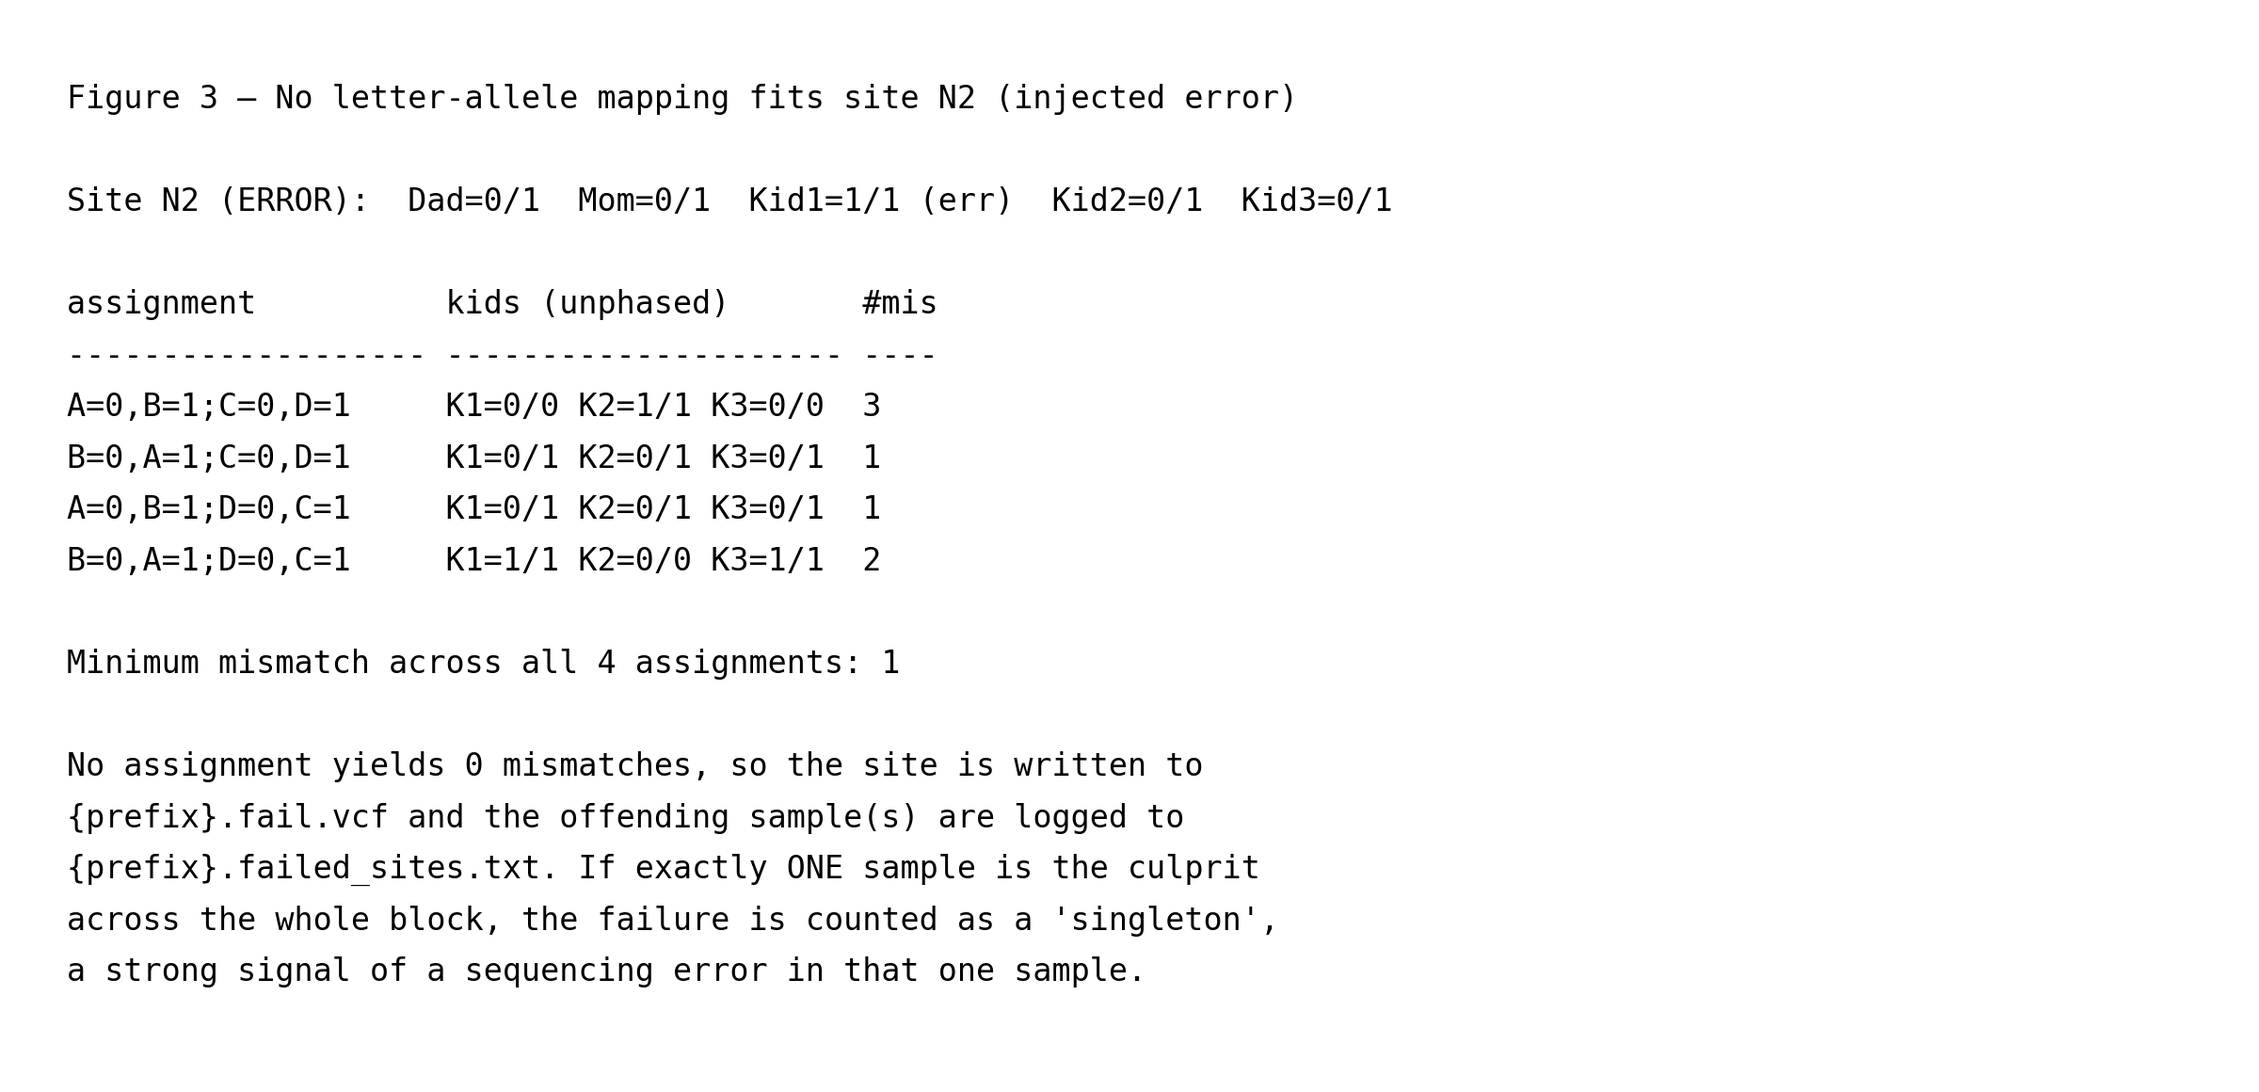
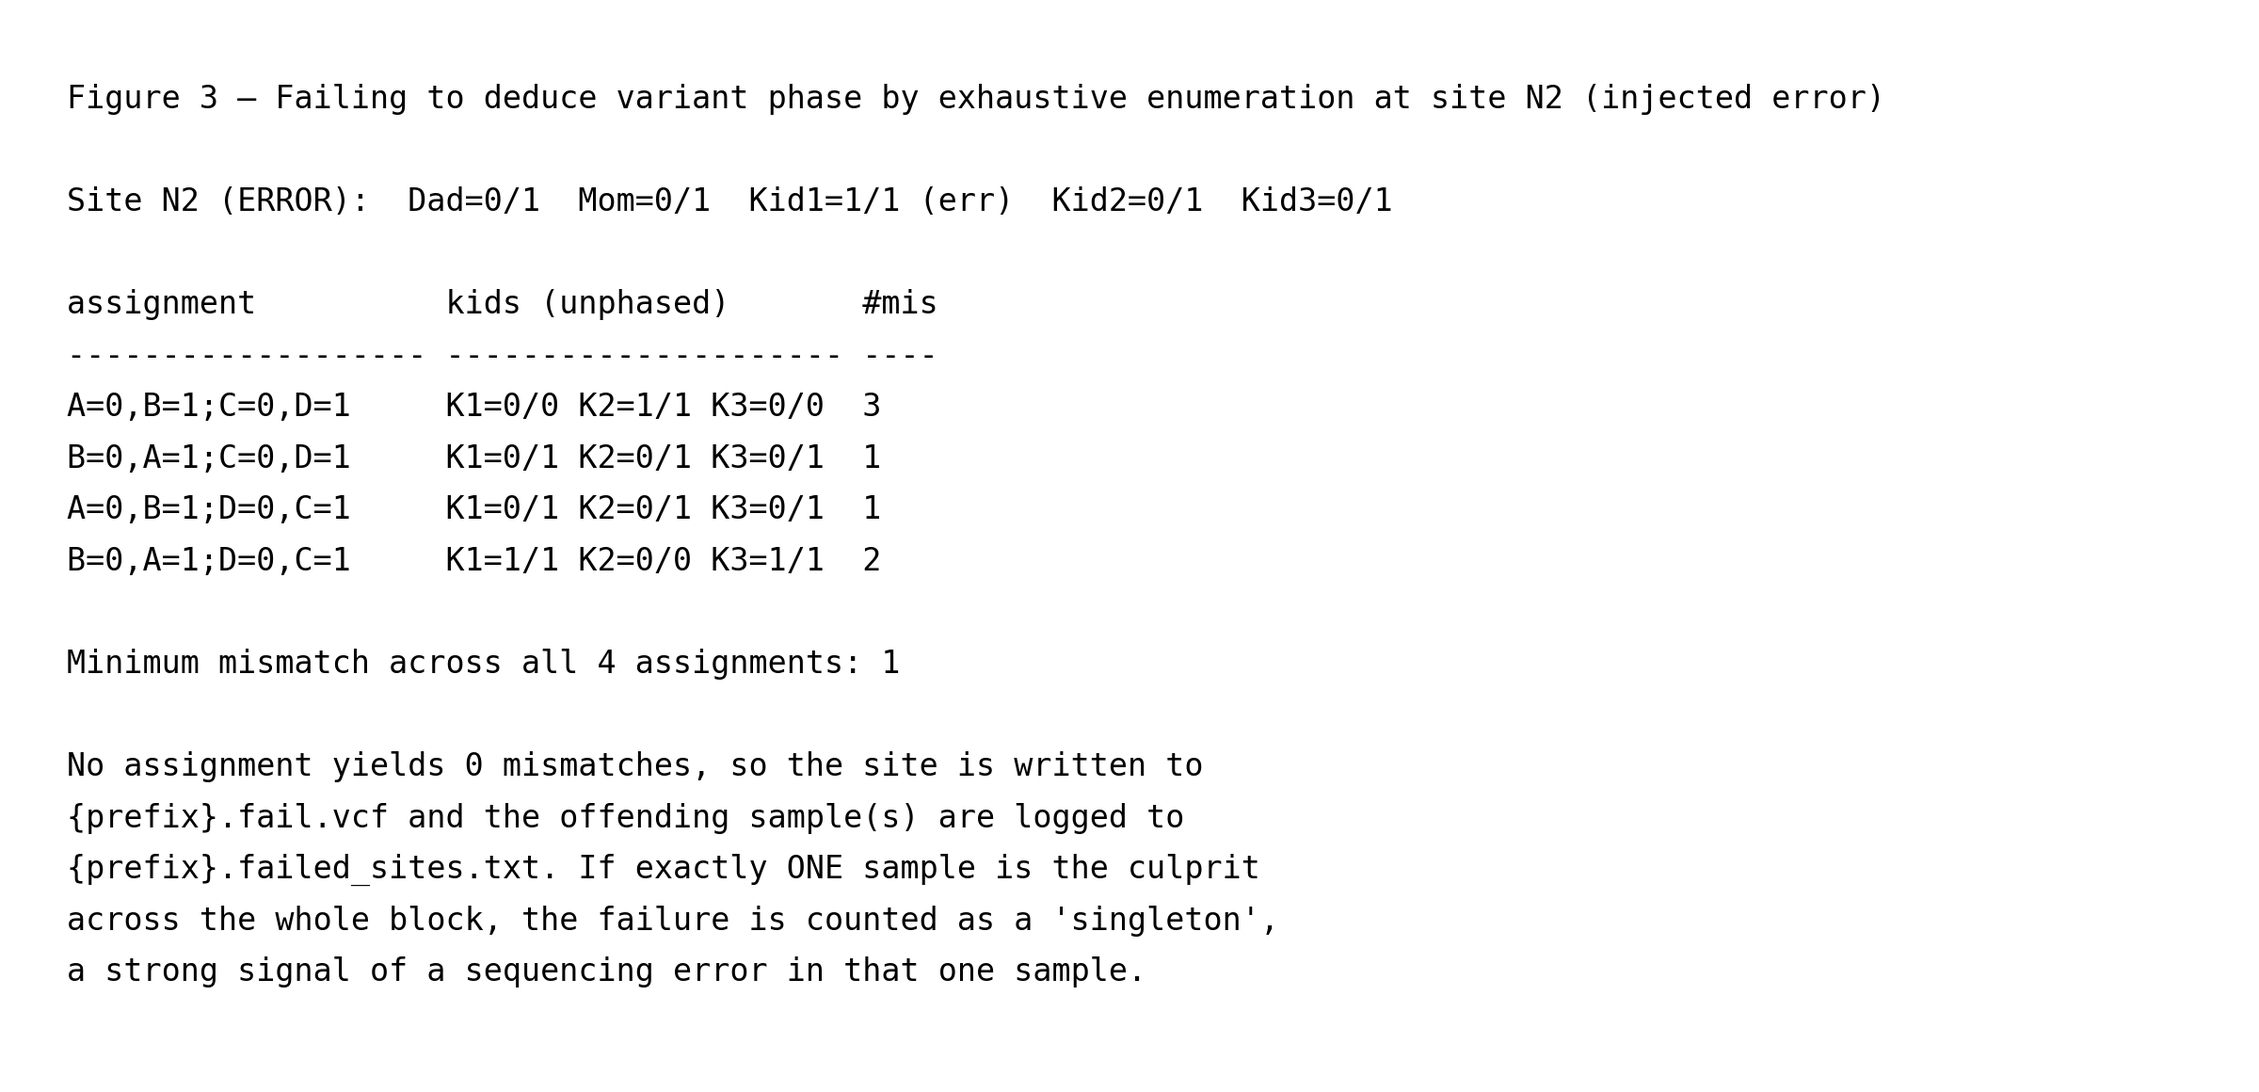
Recast concordance §3/§4 titles around phase deduction
Retitle §3 to "Deducing variant phase by exhaustive enumeration at
a clean site" and §4 to the parallel "Failing to deduce variant
phase by exhaustive enumeration at an error site", with Fig 2 and
Fig 3 captions updated to match. The §2 closing sentence drops its
"impossible genotype" reference (concept still defined in methods
§3.2) in favour of wording consistent with the new Fig 3 title.
Fig 2's (A) line reworded to "Observed unphased genotypes (read
from VCF):" for clarity.

Changed region(s): [[0.125, 0.0621, 0.625, 0.1241], [0.7188, 0.0621, 0.8125, 0.0931], [0.6562, 0.0621, 0.6875, 0.0931]]

diff --git a/wiki/generate_wiki.py b/wiki/generate_wiki.py
@@ -2688,11 +2688,11 @@ def component_3_concordance(out_dir: Path) -> None:
     assign_widths = [20, 25, 27, 27, 5]
 
     body_2 = [
-        f"Figure 2 — Enumerating letter-allele mappings at site {s1['label']} (clean pass)",
+        f"Figure 2 — Deducing variant phase by exhaustive enumeration at site {s1['label']} (clean pass)",
         "",
         "Inputs consumed at this site:",
         "",
-        "  (A) Observed VCF genotypes (unphased):",
+        "  (A) Observed unphased genotypes (read from VCF):",
         f"      Dad  = {_fmt_gt(obs1['Dad'])}   Mom  = {_fmt_gt(obs1['Mom'])}",
         f"      Kid1 = {_fmt_gt(obs1['Kid1'])}   "
         f"Kid2 = {_fmt_gt(obs1['Kid2'])}   "
@@ -2761,7 +2761,7 @@ def component_3_concordance(out_dir: Path) -> None:
     assign_widths_slim = [20, 22, 5]
 
     body_3 = [
-        f"Figure 3 — No letter-allele mapping fits site {s2['label']} (injected error)",
+        f"Figure 3 — Failing to deduce variant phase by exhaustive enumeration at site {s2['label']} (injected error)",
         "",
         f"Site {s2['label']} (ERROR):  "
         f"Dad={_fmt_gt(obs2['Dad'])}  "
@@ -2985,11 +2985,11 @@ phased `pass.vcf` record or a quarantined `fail.vcf` record.
 
 Site `N2` carries an **injected sequencing error**: Kid1 is reported
 as `1/1` even though the simulation truth is `0/1`. This is the case
-that the "impossible genotype" rule in Figure 3 is designed to catch.
+Figure 3 covers, where exhaustive enumeration finds no consistent phase.
 
-## 3. Enumerating letter-allele mappings at a clean site
+## 3. Deducing variant phase by exhaustive enumeration at a clean site
 
-![Figure 2 — Enumerating letter-allele mappings at site N1 (clean pass)](fig2.png)
+![Figure 2 — Deducing variant phase by exhaustive enumeration at site N1 (clean pass)](fig2.png)
 
 At every record inside a block,
 [`find_best_phase_orientation`]({link(conc_rs, 252)}) (driver call at
@@ -3019,9 +3019,9 @@ Under the winning mapping, the kids' phased letter pairs immediately
 give the phased `p|m` genotypes shown in the
 "kids (expected, phased)" column.
 
-## 4. The "impossible genotype" rule
+## 4. Failing to deduce variant phase by exhaustive enumeration at an error site
 
-![Figure 3 — No letter-allele mapping fits site N2 (injected error)](fig3.png)
+![Figure 3 — Failing to deduce variant phase by exhaustive enumeration at site N2 (injected error)](fig3.png)
 
 At site `N2` the injected error means **no** mapping produces zero
 mismatches — the best any mapping can do is {n2_min_mis} sample(s)

diff --git a/wiki/concordance/concordance.md b/wiki/concordance/concordance.md
@@ -6,16 +6,16 @@ off. `gtg-ped-map` emits only founder letters, and only at informative
 sites; it never reconstructs the 0/1 allele sequence of any haplotype.
 That job belongs to `gtg-concordance`, which re-reads the VCF for each
 IHT block and phases **every** variant using the block's letter map.
-All line numbers refer to commit `fc639f2`. As in the other
+All line numbers refer to commit `3d13665`. As in the other
 walkthrough pages, each function link is followed by its call site in
 the driver — `main()` in
-[`gtg_concordance.rs`](https://github.com/Platinum-Pedigree-Consortium/Platinum-Pedigree-Inheritance/blob/fc639f25b1c6860df2076151cbc161a8e1d4333b/code/rust/src/bin/gtg_concordance.rs#L315) — so you can step through
+[`gtg_concordance.rs`](https://github.com/Platinum-Pedigree-Consortium/Platinum-Pedigree-Inheritance/blob/3d1366561ca04c4aaeb035beb59856a3b0c11296/code/rust/src/bin/gtg_concordance.rs#L315) — so you can step through
 the driver source in parallel with this walkthrough.
 
 The toy simulation reuses the [left half of the nuclear-family block](https://github.com/petermchale/Platinum-Pedigree-Inheritance/blob/main/wiki/nuclear_family/fig4_2.png)
 (Kid1=(A,C), Kid2=(B,D), Kid3=(A,C)) and adds two sites where both
 parents are heterozygous. These are NON-informative for `gtg-ped-map`
-because [`unique_allele`](https://github.com/Platinum-Pedigree-Consortium/Platinum-Pedigree-Inheritance/blob/fc639f25b1c6860df2076151cbc161a8e1d4333b/code/rust/src/bin/map_builder.rs#L243) returns `None` at each
+because [`unique_allele`](https://github.com/Platinum-Pedigree-Consortium/Platinum-Pedigree-Inheritance/blob/3d1366561ca04c4aaeb035beb59856a3b0c11296/code/rust/src/bin/map_builder.rs#L243) returns `None` at each
 of them, but `gtg-concordance` still has to phase them. One of the two
 sites carries an injected sequencing error so both the clean-pass
 (`pass.vcf`) and error-quarantine (`fail.vcf`) code paths are
@@ -32,8 +32,8 @@ markdown file itself.
 
 The driver reads the `{prefix}.iht.txt` file produced by
 `gtg-ped-map` using
-[`parse_ihtv2_file`](https://github.com/Platinum-Pedigree-Consortium/Platinum-Pedigree-Inheritance/blob/fc639f25b1c6860df2076151cbc161a8e1d4333b/code/rust/src/iht.rs#L606) (driver call at
-[`gtg_concordance.rs:405`](https://github.com/Platinum-Pedigree-Consortium/Platinum-Pedigree-Inheritance/blob/fc639f25b1c6860df2076151cbc161a8e1d4333b/code/rust/src/bin/gtg_concordance.rs#L405)). The parser walks
+[`parse_ihtv2_file`](https://github.com/Platinum-Pedigree-Consortium/Platinum-Pedigree-Inheritance/blob/3d1366561ca04c4aaeb035beb59856a3b0c11296/code/rust/src/iht.rs#L606) (driver call at
+[`gtg_concordance.rs:405`](https://github.com/Platinum-Pedigree-Consortium/Platinum-Pedigree-Inheritance/blob/3d1366561ca04c4aaeb035beb59856a3b0c11296/code/rust/src/bin/gtg_concordance.rs#L405)). The parser walks
 the file line by line: the first three whitespace-separated fields of
 each row are the `chrom`, `start`, and `end` of the block's BED
 interval, the trailing columns carry the per-block marker count, and
@@ -50,22 +50,22 @@ The driver then iterates over the returned `Vec<IhtVec>` one block at
 a time. For each block it converts the BED coordinates to the
 `(chrom_id, start, end)` triple expected by `rust-htslib` and calls
 `reader.fetch(...)` at
-[`gtg_concordance.rs:427`](https://github.com/Platinum-Pedigree-Consortium/Platinum-Pedigree-Inheritance/blob/fc639f25b1c6860df2076151cbc161a8e1d4333b/code/rust/src/bin/gtg_concordance.rs#L427) to position the VCF
+[`gtg_concordance.rs:427`](https://github.com/Platinum-Pedigree-Consortium/Platinum-Pedigree-Inheritance/blob/3d1366561ca04c4aaeb035beb59856a3b0c11296/code/rust/src/bin/gtg_concordance.rs#L427) to position the VCF
 reader on the first record that falls inside the block — silently
 skipping the block if the fetch fails (e.g. the contig is absent from
 the VCF index). Every record returned by the resulting
 `reader.records()` iterator is fed through
-[`parse_vcf_record`](https://github.com/Platinum-Pedigree-Consortium/Platinum-Pedigree-Inheritance/blob/fc639f25b1c6860df2076151cbc161a8e1d4333b/code/rust/src/bin/gtg_concordance.rs#L116) at
-[`gtg_concordance.rs:440`](https://github.com/Platinum-Pedigree-Consortium/Platinum-Pedigree-Inheritance/blob/fc639f25b1c6860df2076151cbc161a8e1d4333b/code/rust/src/bin/gtg_concordance.rs#L440), which pulls each
+[`parse_vcf_record`](https://github.com/Platinum-Pedigree-Consortium/Platinum-Pedigree-Inheritance/blob/3d1366561ca04c4aaeb035beb59856a3b0c11296/code/rust/src/bin/gtg_concordance.rs#L116) at
+[`gtg_concordance.rs:440`](https://github.com/Platinum-Pedigree-Consortium/Platinum-Pedigree-Inheritance/blob/3d1366561ca04c4aaeb035beb59856a3b0c11296/code/rust/src/bin/gtg_concordance.rs#L440), which pulls each
 sample's depth and (unphased, index-sorted) allele vector into a
 `HashMap<String, (depth, Vec<GenotypeAllele>)>`. Low-quality records
 (`record.qual() < args.qual`) and records with missing alleles are
 short-circuited straight to `{prefix}.fail.vcf` at
-[`gtg_concordance.rs:444`](https://github.com/Platinum-Pedigree-Consortium/Platinum-Pedigree-Inheritance/blob/fc639f25b1c6860df2076151cbc161a8e1d4333b/code/rust/src/bin/gtg_concordance.rs#L444) and
-[`gtg_concordance.rs:450`](https://github.com/Platinum-Pedigree-Consortium/Platinum-Pedigree-Inheritance/blob/fc639f25b1c6860df2076151cbc161a8e1d4333b/code/rust/src/bin/gtg_concordance.rs#L450); everything else is
+[`gtg_concordance.rs:444`](https://github.com/Platinum-Pedigree-Consortium/Platinum-Pedigree-Inheritance/blob/3d1366561ca04c4aaeb035beb59856a3b0c11296/code/rust/src/bin/gtg_concordance.rs#L444) and
+[`gtg_concordance.rs:450`](https://github.com/Platinum-Pedigree-Consortium/Platinum-Pedigree-Inheritance/blob/3d1366561ca04c4aaeb035beb59856a3b0c11296/code/rust/src/bin/gtg_concordance.rs#L450); everything else is
 handed to the per-site phasing step —
-[`find_best_phase_orientation`](https://github.com/Platinum-Pedigree-Consortium/Platinum-Pedigree-Inheritance/blob/fc639f25b1c6860df2076151cbc161a8e1d4333b/code/rust/src/bin/gtg_concordance.rs#L252) at
-[`gtg_concordance.rs:454`](https://github.com/Platinum-Pedigree-Consortium/Platinum-Pedigree-Inheritance/blob/fc639f25b1c6860df2076151cbc161a8e1d4333b/code/rust/src/bin/gtg_concordance.rs#L454) — including variants
+[`find_best_phase_orientation`](https://github.com/Platinum-Pedigree-Consortium/Platinum-Pedigree-Inheritance/blob/3d1366561ca04c4aaeb035beb59856a3b0c11296/code/rust/src/bin/gtg_concordance.rs#L252) at
+[`gtg_concordance.rs:454`](https://github.com/Platinum-Pedigree-Consortium/Platinum-Pedigree-Inheritance/blob/3d1366561ca04c4aaeb035beb59856a3b0c11296/code/rust/src/bin/gtg_concordance.rs#L454) — including variants
 that `gtg-ped-map` could not use because neither parent has a unique
 allele.
 
@@ -75,7 +75,7 @@ allele.
 
 The two sites in Figure 1 are both homozygous-absent for informative
 patterns: dad is `0/1` and so is mom. `gtg-ped-map`'s
-[`unique_allele`](https://github.com/Platinum-Pedigree-Consortium/Platinum-Pedigree-Inheritance/blob/fc639f25b1c6860df2076151cbc161a8e1d4333b/code/rust/src/bin/map_builder.rs#L243) test therefore returns `None`
+[`unique_allele`](https://github.com/Platinum-Pedigree-Consortium/Platinum-Pedigree-Inheritance/blob/3d1366561ca04c4aaeb035beb59856a3b0c11296/code/rust/src/bin/map_builder.rs#L243) test therefore returns `None`
 at both sites, so neither contributes to block construction. They
 still enter `gtg-concordance`'s phasing loop; the per-site machinery
 described below is what turns their unphased genotypes into either a
@@ -83,32 +83,32 @@ phased `pass.vcf` record or a quarantined `fail.vcf` record.
 
 Site `N2` carries an **injected sequencing error**: Kid1 is reported
 as `1/1` even though the simulation truth is `0/1`. This is the case
-that the "impossible genotype" rule in Figure 3 is designed to catch.
+Figure 3 covers, where exhaustive enumeration finds no consistent phase.
 
-## 3. Enumerating letter-allele mappings at a clean site
+## 3. Deducing variant phase by exhaustive enumeration at a clean site
 
-![Figure 2 — Enumerating letter-allele mappings at site N1 (clean pass)](fig2.png)
+![Figure 2 — Deducing variant phase by exhaustive enumeration at site N1 (clean pass)](fig2.png)
 
 At every record inside a block,
-[`find_best_phase_orientation`](https://github.com/Platinum-Pedigree-Consortium/Platinum-Pedigree-Inheritance/blob/fc639f25b1c6860df2076151cbc161a8e1d4333b/code/rust/src/bin/gtg_concordance.rs#L252) (driver call at
-[`gtg_concordance.rs:454`](https://github.com/Platinum-Pedigree-Consortium/Platinum-Pedigree-Inheritance/blob/fc639f25b1c6860df2076151cbc161a8e1d4333b/code/rust/src/bin/gtg_concordance.rs#L454)) enumerates the
+[`find_best_phase_orientation`](https://github.com/Platinum-Pedigree-Consortium/Platinum-Pedigree-Inheritance/blob/3d1366561ca04c4aaeb035beb59856a3b0c11296/code/rust/src/bin/gtg_concordance.rs#L252) (driver call at
+[`gtg_concordance.rs:454`](https://github.com/Platinum-Pedigree-Consortium/Platinum-Pedigree-Inheritance/blob/3d1366561ca04c4aaeb035beb59856a3b0c11296/code/rust/src/bin/gtg_concordance.rs#L454)) enumerates the
 `2^F=4` letter-allele mappings produced by
-[`Iht::founder_phase_orientations`](https://github.com/Platinum-Pedigree-Consortium/Platinum-Pedigree-Inheritance/blob/fc639f25b1c6860df2076151cbc161a8e1d4333b/code/rust/src/iht.rs#L492) (invoked
+[`Iht::founder_phase_orientations`](https://github.com/Platinum-Pedigree-Consortium/Platinum-Pedigree-Inheritance/blob/3d1366561ca04c4aaeb035beb59856a3b0c11296/code/rust/src/iht.rs#L492) (invoked
 inside `find_best_phase_orientation` at
-[`gtg_concordance.rs:256`](https://github.com/Platinum-Pedigree-Consortium/Platinum-Pedigree-Inheritance/blob/fc639f25b1c6860df2076151cbc161a8e1d4333b/code/rust/src/bin/gtg_concordance.rs#L256)). Each mapping
+[`gtg_concordance.rs:256`](https://github.com/Platinum-Pedigree-Consortium/Platinum-Pedigree-Inheritance/blob/3d1366561ca04c4aaeb035beb59856a3b0c11296/code/rust/src/bin/gtg_concordance.rs#L256)). Each mapping
 chooses which of dad's two sorted VCF alleles is tagged `A` vs `B`
 and which of mom's two is tagged `C` vs `D` — recall that the
 founders' letters are *unphased* (A/B, C/D), whereas each kid's
 letter pair is *phased* (paternal letter | maternal letter) by
 construction of the block. Under a given mapping,
-[`Iht::assign_genotypes`](https://github.com/Platinum-Pedigree-Consortium/Platinum-Pedigree-Inheritance/blob/fc639f25b1c6860df2076151cbc161a8e1d4333b/code/rust/src/iht.rs#L442) (driver call at
-[`gtg_concordance.rs:487`](https://github.com/Platinum-Pedigree-Consortium/Platinum-Pedigree-Inheritance/blob/fc639f25b1c6860df2076151cbc161a8e1d4333b/code/rust/src/bin/gtg_concordance.rs#L487) on the failing branch
-and [`gtg_concordance.rs:514`](https://github.com/Platinum-Pedigree-Consortium/Platinum-Pedigree-Inheritance/blob/fc639f25b1c6860df2076151cbc161a8e1d4333b/code/rust/src/bin/gtg_concordance.rs#L514) on the passing
+[`Iht::assign_genotypes`](https://github.com/Platinum-Pedigree-Consortium/Platinum-Pedigree-Inheritance/blob/3d1366561ca04c4aaeb035beb59856a3b0c11296/code/rust/src/iht.rs#L442) (driver call at
+[`gtg_concordance.rs:487`](https://github.com/Platinum-Pedigree-Consortium/Platinum-Pedigree-Inheritance/blob/3d1366561ca04c4aaeb035beb59856a3b0c11296/code/rust/src/bin/gtg_concordance.rs#L487) on the failing branch
+and [`gtg_concordance.rs:514`](https://github.com/Platinum-Pedigree-Consortium/Platinum-Pedigree-Inheritance/blob/3d1366561ca04c4aaeb035beb59856a3b0c11296/code/rust/src/bin/gtg_concordance.rs#L514) on the passing
 branch) reads each kid's phased letter pair as a phased VCF genotype.
 That genotype is then unphased (alleles sorted) and compared against
 the observed unphased kid genotype by
-[`compare_genotype_maps`](https://github.com/Platinum-Pedigree-Consortium/Platinum-Pedigree-Inheritance/blob/fc639f25b1c6860df2076151cbc161a8e1d4333b/code/rust/src/bin/gtg_concordance.rs#L213) (driver call at
-[`gtg_concordance.rs:268`](https://github.com/Platinum-Pedigree-Consortium/Platinum-Pedigree-Inheritance/blob/fc639f25b1c6860df2076151cbc161a8e1d4333b/code/rust/src/bin/gtg_concordance.rs#L268)), which counts how
+[`compare_genotype_maps`](https://github.com/Platinum-Pedigree-Consortium/Platinum-Pedigree-Inheritance/blob/3d1366561ca04c4aaeb035beb59856a3b0c11296/code/rust/src/bin/gtg_concordance.rs#L213) (driver call at
+[`gtg_concordance.rs:268`](https://github.com/Platinum-Pedigree-Consortium/Platinum-Pedigree-Inheritance/blob/3d1366561ca04c4aaeb035beb59856a3b0c11296/code/rust/src/bin/gtg_concordance.rs#L268)), which counts how
 many kids disagree.
 
 At site `N1`, exactly one of the four mappings explains every kid
@@ -117,19 +117,19 @@ Under the winning mapping, the kids' phased letter pairs immediately
 give the phased `p|m` genotypes shown in the
 "kids (expected, phased)" column.
 
-## 4. The "impossible genotype" rule
+## 4. Failing to deduce variant phase by exhaustive enumeration at an error site
 
-![Figure 3 — No letter-allele mapping fits site N2 (injected error)](fig3.png)
+![Figure 3 — Failing to deduce variant phase by exhaustive enumeration at site N2 (injected error)](fig3.png)
 
 At site `N2` the injected error means **no** mapping produces zero
 mismatches — the best any mapping can do is 1 sample(s)
 disagreeing. `find_best_phase_orientation` therefore returns a
 non-empty mismatch list, the driver writes the record to
 `{prefix}.fail.vcf` at
-[`gtg_concordance.rs:507`](https://github.com/Platinum-Pedigree-Consortium/Platinum-Pedigree-Inheritance/blob/fc639f25b1c6860df2076151cbc161a8e1d4333b/code/rust/src/bin/gtg_concordance.rs#L507) (alongside the
+[`gtg_concordance.rs:507`](https://github.com/Platinum-Pedigree-Consortium/Platinum-Pedigree-Inheritance/blob/3d1366561ca04c4aaeb035beb59856a3b0c11296/code/rust/src/bin/gtg_concordance.rs#L507) (alongside the
 low-quality and no-call records that were already routed to fail at
-[`gtg_concordance.rs:444`](https://github.com/Platinum-Pedigree-Consortium/Platinum-Pedigree-Inheritance/blob/fc639f25b1c6860df2076151cbc161a8e1d4333b/code/rust/src/bin/gtg_concordance.rs#L444) and
-[`gtg_concordance.rs:450`](https://github.com/Platinum-Pedigree-Consortium/Platinum-Pedigree-Inheritance/blob/fc639f25b1c6860df2076151cbc161a8e1d4333b/code/rust/src/bin/gtg_concordance.rs#L450)), and the offending
+[`gtg_concordance.rs:444`](https://github.com/Platinum-Pedigree-Consortium/Platinum-Pedigree-Inheritance/blob/3d1366561ca04c4aaeb035beb59856a3b0c11296/code/rust/src/bin/gtg_concordance.rs#L444) and
+[`gtg_concordance.rs:450`](https://github.com/Platinum-Pedigree-Consortium/Platinum-Pedigree-Inheritance/blob/3d1366561ca04c4aaeb035beb59856a3b0c11296/code/rust/src/bin/gtg_concordance.rs#L450)), and the offending
 sample names are appended to `{prefix}.failed_sites.txt`. If
 exactly one sample is the culprit across the whole block, the failure
 is counted as a "singleton" — a strong signal of a sequencing error
@@ -157,9 +157,9 @@ writes founder letters per individual per block.
 `gtg-concordance` (`gtg_concordance.rs`) is a pure phasing/QC tool
 that uses those structural labels to assign alleles at every site in
 the block: the passing records are phased via
-[`Iht::assign_genotypes`](https://github.com/Platinum-Pedigree-Consortium/Platinum-Pedigree-Inheritance/blob/fc639f25b1c6860df2076151cbc161a8e1d4333b/code/rust/src/iht.rs#L442) and emitted to
+[`Iht::assign_genotypes`](https://github.com/Platinum-Pedigree-Consortium/Platinum-Pedigree-Inheritance/blob/3d1366561ca04c4aaeb035beb59856a3b0c11296/code/rust/src/iht.rs#L442) and emitted to
 `{prefix}.pass.vcf` at
-[`gtg_concordance.rs:534`](https://github.com/Platinum-Pedigree-Consortium/Platinum-Pedigree-Inheritance/blob/fc639f25b1c6860df2076151cbc161a8e1d4333b/code/rust/src/bin/gtg_concordance.rs#L534), and the failing
+[`gtg_concordance.rs:534`](https://github.com/Platinum-Pedigree-Consortium/Platinum-Pedigree-Inheritance/blob/3d1366561ca04c4aaeb035beb59856a3b0c11296/code/rust/src/bin/gtg_concordance.rs#L534), and the failing
 records are quarantined to `{prefix}.fail.vcf` as described above.
 The split is the answer to "does `gtg-ped-map` reconstruct the 0/1
 allele sequence of each haplotype?": no, and deliberately — that is
